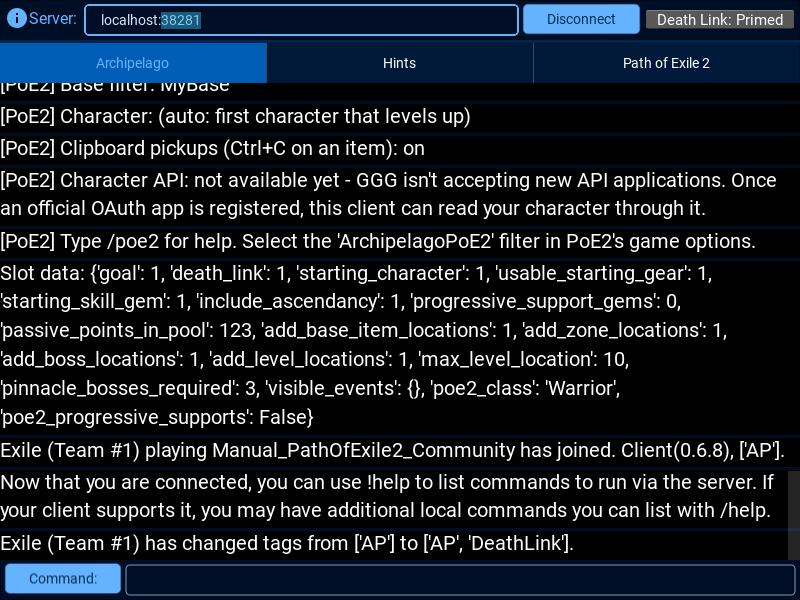
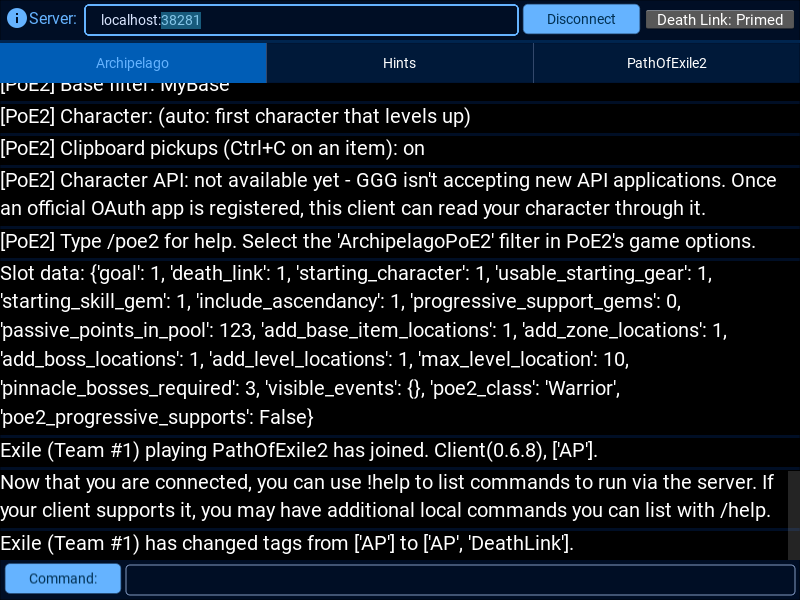
Rename game to PathOfExile2 (v0.5.0)
- Game ID is now "PathOfExile2" (was Manual_PathOfExile2_Community);
  Manual's Game.py accepts a "game_id" in game.json for this
- World folder and file: worlds/PathOfExile2, PathOfExile2.apworld
- Launcher entry, window title and tab: "PathOfExile2 Client"
- The world no longer registers the generic Manual Client and
  Manual Discord launcher entries
- Docs, README, example YAML and tools updated

Breaking: seeds generated with 0.4.x need the old file.

Claude-Session: https://claude.ai/code/session_016ksuNWtGNrDGaxGb8bhr8n

Changed region(s): [[0.25, 0.72, 0.9688, 0.78], [0.7812, 0.09, 0.8438, 0.12], [0.875, 0.09, 0.9062, 0.12]]

diff --git a/worlds/PathOfExile2/ManualClient.py b/worlds/PathOfExile2/ManualClient.py
@@ -89,9 +89,9 @@ def natural_sort_key(key: str):
 
     return [convert(c) for c in re.split('([0-9]+)', key)]
 
-# Set by the "Path of Exile 2 Client" launcher entry: fixed game, PoE2 titles, no game picker.
+# Set by the "PathOfExile2 Client" launcher entry: fixed game, PoE2 titles, no game picker.
 POE2_MODE = False
-POE2_GAME = "Manual_PathOfExile2_Community"
+POE2_GAME = "PathOfExile2"
 
 
 class ManualClientCommandProcessor(ClientCommandProcessor):
@@ -206,7 +206,7 @@ class ManualContext(SuperContext):
             else:
                 await super(ManualContext, self).server_auth(password_requested)
 
-        if "Manual_" not in self.ui.game_bar_text.text:
+        if not POE2_MODE and "Manual_" not in self.ui.game_bar_text.text:
             raise Exception("The Manual client can only be used for Manual games.")
 
         self.game = self.ui.game_bar_text.text
@@ -484,7 +484,7 @@ class ManualContext(SuperContext):
             background_color = ColorProperty()
 
         class ManualManager(ui):
-            base_title = "Archipelago Path of Exile 2 Client" if POE2_MODE else "Archipelago Manual Client"
+            base_title = "Archipelago PathOfExile2 Client" if POE2_MODE else "Archipelago Manual Client"
             listed_items = {"(No Category)": []}
             item_categories = ["(No Category)"]
             listed_locations = {"(No Category)": []}
@@ -531,7 +531,7 @@ class ManualContext(SuperContext):
                 if not POE2_MODE:  # the PoE2 client always uses the PoE2 world
                     self.grid.add_widget(self.manual_game_layout, 3)
 
-                panel = self.add_client_tab("Path of Exile 2" if POE2_MODE else "Manual",
+                panel = self.add_client_tab("PathOfExile2" if POE2_MODE else "Manual",
                                             ManualTabLayout(orientation="vertical"))
 
                 self.controls_panel = ManualControlsLayout(orientation="horizontal", size_hint_y=None, height=dp(40))
@@ -1570,7 +1570,7 @@ def launch(*launch_args) -> None:
             f.write(requests.get(icon_url).content)
 
 def launch_poe2(*launch_args) -> None:
-    """Entry point of the "Path of Exile 2 Client" launcher button (module level so it can run in a subprocess)."""
+    """Entry point of the "PathOfExile2 Client" launcher button (module level so it can run in a subprocess)."""
     global POE2_MODE
     POE2_MODE = True
     launch(*launch_args)

diff --git a/worlds/PathOfExile2/__init__.py b/worlds/PathOfExile2/__init__.py
@@ -633,11 +633,11 @@ def add_client_to_launcher() -> None:
     if not discord_component:
         components.append(Component("Manual Discord Server", "ManualDiscord", func=lambda: webbrowser.open("https://discord.gg/hm4rQnTzQ5"), icon="discord", component_type=Type.ADJUSTER))
 
-add_client_to_launcher()
+# This world registers only its own "PathOfExile2 Client" entry (below), not the generic Manual Client.
 
 
 # ----- Path of Exile 2 client entry -----
-POE2_GAME = "Manual_PathOfExile2_Community"
+POE2_GAME = "PathOfExile2"
 
 
 def launch_poe2_client(*args):
@@ -645,16 +645,16 @@ def launch_poe2_client(*args):
     from .ManualClient import launch_poe2
 
     if CommonClient.gui_enabled:
-        launch(launch_poe2, name="Path of Exile 2 Client", args=args)
+        launch(launch_poe2, name="PathOfExile2 Client", args=args)
     else:
         launch_poe2(*args)
 
 
 def add_poe2_client_to_launcher() -> None:
     icon_paths["poe2"] = f"ap:{__name__}/data/poe2_icon.png"
-    if not any(c.display_name == "Path of Exile 2 Client" for c in components):
+    if not any(c.display_name == "PathOfExile2 Client" for c in components):
         components.append(Component(
-            "Path of Exile 2 Client", "PathOfExile2Client", func=launch_poe2_client, icon="poe2",
+            "PathOfExile2 Client", "PathOfExile2Client", func=launch_poe2_client, icon="poe2",
             component_type=Type.CLIENT, game_name=POE2_GAME, supports_uri=True,
             description="Tracks zones, levels, pickups and deaths, and keeps your loot filter updated."))
 

diff --git a/worlds/PathOfExile2/Game.py b/worlds/PathOfExile2/Game.py
@@ -1,6 +1,7 @@
 from .Data import game_table
 
-game_name: str = "Manual_%s_%s" % (game_table["game"], game_table["creator"])
+# A "game_id" in game.json replaces the default Manual_<game>_<creator> naming.
+game_name: str = game_table.get("game_id") or "Manual_%s_%s" % (game_table["game"], game_table["creator"])
 filler_item_name: str | list[str] = game_table["filler_item_name"] if "filler_item_name" in game_table else "Filler"
 glitches_item_name: str | None = game_table["glitches_item_name"] if "glitches_item_name" in game_table else None
 starting_items: list[dict] | None = game_table["starting_items"] if "starting_items" in game_table else None

diff --git a/tools/build_apworld.py b/tools/build_apworld.py
@@ -1,5 +1,5 @@
 #!/usr/bin/env python3
-"""Package worlds/manual_pathofexile2_community into dist/manual_pathofexile2_community.apworld.
+"""Package worlds/PathOfExile2 into dist/PathOfExile2.apworld.
 
 Usage:  python tools/build_apworld.py
 """
@@ -8,7 +8,7 @@ import zipfile
 from pathlib import Path
 
 ROOT = Path(__file__).resolve().parent.parent
-WORLD = "manual_pathofexile2_community"
+WORLD = "PathOfExile2"
 SRC = ROOT / "worlds" / WORLD
 DIST = ROOT / "dist"
 SKIP_DIRS = {"__pycache__"}

diff --git a/tools/generation_test.py b/tools/generation_test.py
@@ -15,7 +15,7 @@ import sys
 import tempfile
 from pathlib import Path
 
-GAME = "Manual_PathOfExile2_Community"
+GAME = "PathOfExile2"
 GOALS = ["victory - complete the campaign", "victory - complete act 1", "victory - complete act 2",
          "victory - complete act 3", "victory - complete act 4", "victory - defeat pinnacle bosses"]
 CLASSES = ["random_class", "warrior", "mercenary", "ranger", "huntress", "monk", "sorceress", "witch", "druid"]

diff --git a/tools/build_data.py b/tools/build_data.py
@@ -2,7 +2,7 @@
 """Generate the Manual-format data files for the Path of Exile 2 Archipelago world.
 
 Source: the repoe-fork/poe2 game-data export (https://github.com/repoe-fork/poe2).
-Usage:  python tools/build_data.py <path-to-repoe-poe2-checkout> worlds/manual_pathofexile2_community
+Usage:  python tools/build_data.py <path-to-repoe-poe2-checkout> worlds/PathOfExile2
 """
 import json
 import re

diff --git a/worlds/PathOfExile2/poe2_client.py b/worlds/PathOfExile2/poe2_client.py
@@ -30,7 +30,7 @@ from .poe2_character_check import OAUTH_STATUS
 if typing.TYPE_CHECKING:
     from .ManualClient import ManualContext
 
-GAME_NAME = "Manual_PathOfExile2_Community"
+GAME_NAME = "PathOfExile2"
 FILTER_NAME = "ArchipelagoPoE2"
 STEAM_APP_ID = "2694490"
 
